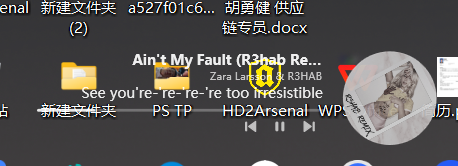
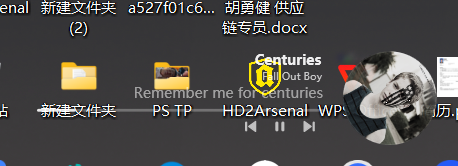
fix(template): the layout engine also honours the same-line switch
The engine skipped the Artist module whenever a Title existed (comment said it is inline and has no
line of its own), so with the switch off the card asked for an Artist rect, got none, and drew
nothing -- the artist disappeared exactly as reported.

The skip is now conditional on cfg.TitleArtistInline, both in the column height pass and when the
rects are produced. Off means the artist is an ordinary module: it gets a line under the title and a
real rect the card can draw into.

Measured, switch off: title 112,32 220x20 and artist 168,52 165x15, both on screen.
Switch on: Centuries + Fall Out Boy on the title line.

diff --git a/src/LayoutEngine.cs b/src/LayoutEngine.cs
@@ -171,7 +171,10 @@ namespace Amc
             {
                 ModuleConfig mc = order[i];
                 if (!mc.Enabled || mc.Kind == ModuleKind.Cover) continue;
-                if (mc.Kind == ModuleKind.Artist && haveTitle) continue;      // inline, no line of its own
+                // The artist only rides the title line when the template says so (TitleArtistInline).
+                // Otherwise it is an ordinary module with its own line, which is what the switch "off"
+                // is supposed to show.
+                if (mc.Kind == ModuleKind.Artist && haveTitle && cfg.TitleArtistInline) continue;
                 if (mc.Kind == ModuleKind.Title) haveTitle = true;
                 if (colH > 0 || HasGap(mc.Kind)) colH += GapBefore(mc.Kind, m);
                 colH += HeightOf(mc, m);
@@ -207,7 +210,7 @@ namespace Amc
                     continue;
                 }
 
-                bool inline = mc.Kind == ModuleKind.Artist && haveTitle;
+                bool inline = mc.Kind == ModuleKind.Artist && haveTitle && cfg.TitleArtistInline;
                 if (inline)
                 {
                     x = double.IsNaN(mc.X) ? colW - w : mc.X;
